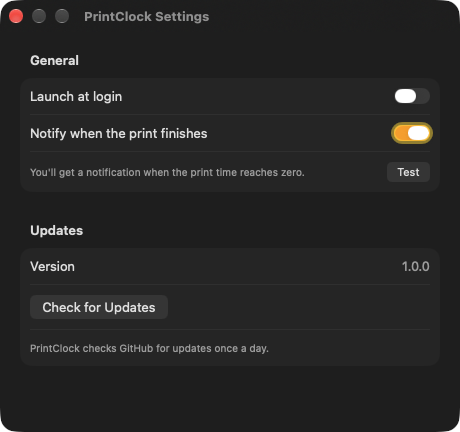
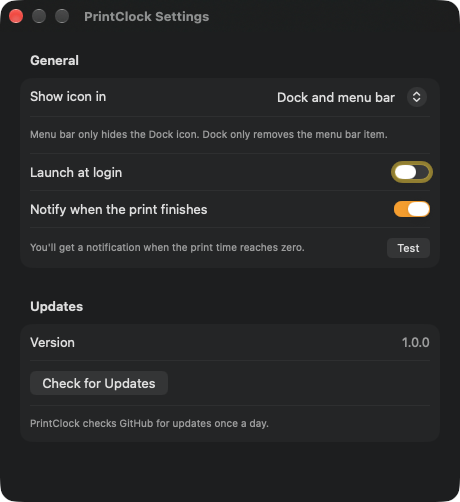
Add Dock and menu bar visibility setting

diff --git a/PrintClock/PrintModel.swift b/PrintClock/PrintModel.swift
@@ -38,6 +38,7 @@ final class PrintModel: ObservableObject {
         static let anchor = "printAnchor"
         static let customStart = "printCustomStart"
         static let lastUpdateCheck = "lastUpdateCheck"
+        static let iconMode = IconMode.storageKey
     }
 
     @Published var hours: Int {
@@ -79,6 +80,13 @@ final class PrintModel: ObservableObject {
         }
     }
 
+    @Published var iconMode: IconMode {
+        didSet {
+            defaults.set(iconMode.rawValue, forKey: Keys.iconMode)
+            applyIconMode()
+        }
+    }
+
     @Published private(set) var availableUpdate: AvailableUpdate?
     @Published private(set) var isCheckingForUpdates = false
     @Published private(set) var updateCheckMessage: String?
@@ -95,6 +103,7 @@ final class PrintModel: ObservableObject {
         self.startMode = savedMode
         self.anchor = defaults.object(forKey: Keys.anchor) as? Date ?? .now
         self.customStart = defaults.object(forKey: Keys.customStart) as? Date ?? .now
+        self.iconMode = IconMode(rawValue: defaults.string(forKey: Keys.iconMode) ?? "") ?? .both
 
         let savedDuration = PrintTime.duration(hours: hours, minutes: minutes)
         let savedStart = savedMode == .now ? anchor : customStart
@@ -211,6 +220,13 @@ final class PrintModel: ObservableObject {
     private func reanchorIfNeeded() {
         if startMode == .now {
             anchor = .now
+        }
+    }
+
+    private func applyIconMode() {
+        let policy: NSApplication.ActivationPolicy = iconMode == .menuBarOnly ? .accessory : .regular
+        if NSApp.activationPolicy() != policy {
+            NSApp.setActivationPolicy(policy)
         }
     }
 

diff --git a/PrintClock/SettingsView.swift b/PrintClock/SettingsView.swift
@@ -14,6 +14,16 @@ struct SettingsView: View {
     var body: some View {
         Form {
             Section("General") {
+                Picker("Show icon in", selection: $model.iconMode) {
+                    ForEach(IconMode.allCases) { mode in
+                        Text(mode.title).tag(mode)
+                    }
+                }
+
+                Text("Menu bar only hides the Dock icon. Dock only removes the menu bar item.")
+                    .font(.caption)
+                    .foregroundStyle(.secondary)
+
                 Toggle("Launch at login", isOn: Binding(
                     get: { launchAtLogin },
                     set: { setLaunchAtLogin($0) }
@@ -82,7 +92,7 @@ struct SettingsView: View {
             }
         }
         .formStyle(.grouped)
-        .frame(width: 460, height: 400)
+        .frame(width: 460, height: 470)
         .onAppear {
             launchAtLogin = SMAppService.mainApp.status == .enabled
         }

diff --git a/PrintClock/PrintClockApp.swift b/PrintClock/PrintClockApp.swift
@@ -2,6 +2,7 @@ import SwiftUI
 
 @main
 struct PrintClockApp: App {
+    @NSApplicationDelegateAdaptor(AppDelegate.self) private var appDelegate
     @StateObject private var model = PrintModel()
 
     var body: some Scene {
@@ -12,7 +13,18 @@ struct PrintClockApp: App {
         .windowResizability(.contentSize)
         .defaultSize(width: 470, height: 670)
 
-        MenuBarExtra {
+        MenuBarExtra(isInserted: Binding(
+            get: { model.iconMode != .dockOnly },
+            set: { inserted in
+                if inserted {
+                    if model.iconMode == .dockOnly {
+                        model.iconMode = .both
+                    }
+                } else if model.iconMode != .dockOnly {
+                    model.iconMode = .dockOnly
+                }
+            }
+        )) {
             MenuBarView()
                 .environmentObject(model)
         } label: {

diff --git a/PrintClock/IconMode.swift b/PrintClock/IconMode.swift
@@ -1,0 +1,23 @@
+import Foundation
+
+/// Where the app is reachable from.
+enum IconMode: String, CaseIterable, Identifiable {
+    case both
+    case menuBarOnly
+    case dockOnly
+
+    static let storageKey = "iconMode"
+
+    var id: String { rawValue }
+
+    var title: String {
+        switch self {
+        case .both:
+            return "Dock and menu bar"
+        case .menuBarOnly:
+            return "Menu bar only"
+        case .dockOnly:
+            return "Dock only"
+        }
+    }
+}

diff --git a/PrintClock/AppDelegate.swift b/PrintClock/AppDelegate.swift
@@ -1,0 +1,10 @@
+import AppKit
+
+final class AppDelegate: NSObject, NSApplicationDelegate {
+    func applicationDidFinishLaunching(_ notification: Notification) {
+        let raw = UserDefaults.standard.string(forKey: IconMode.storageKey)
+            ?? IconMode.both.rawValue
+        let mode = IconMode(rawValue: raw) ?? .both
+        NSApp.setActivationPolicy(mode == .menuBarOnly ? .accessory : .regular)
+    }
+}

diff --git a/README.md b/README.md
@@ -19,6 +19,7 @@ Settings covers launch at login, finished-print notifications, and update checks
 - Finish time updates live, with a countdown and progress bar
 - Start now, or choose a custom start date and time
 - Menu bar extra for quick access, synced with the main window
+- Choose Dock and menu bar, menu bar only, or Dock only
 - Notification when the timer reaches zero, with a Test button
 - Launch at login
 - Automatic daily update check, plus a manual Check for Updates button
